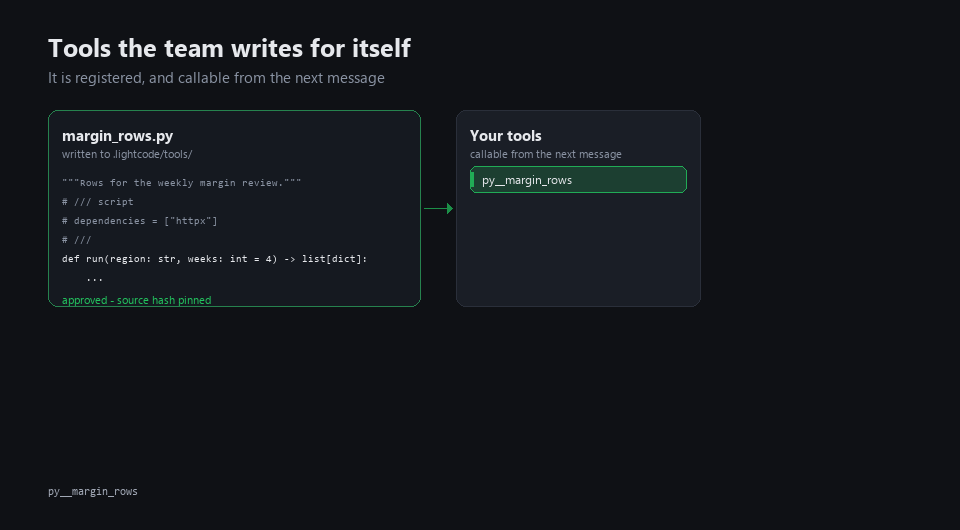
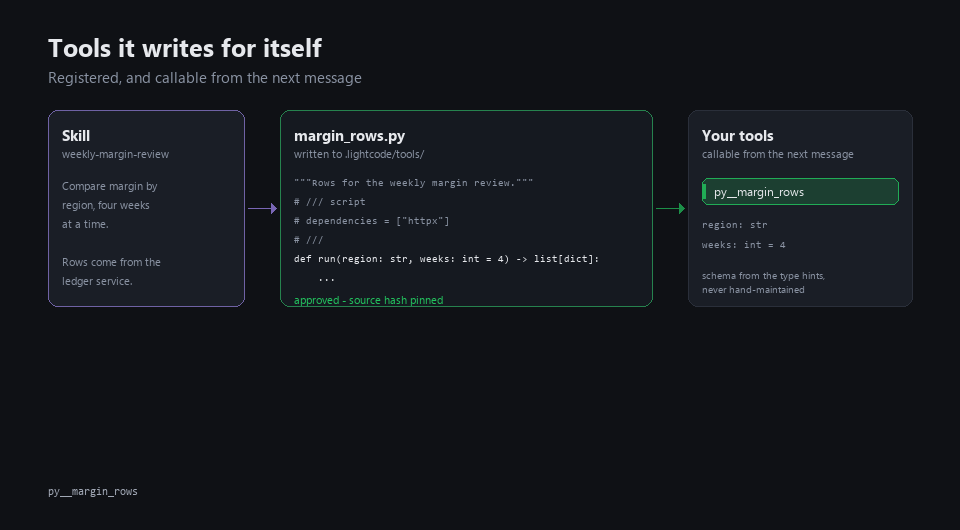
docs: the python tools animation claimed sharing that does not exist
Caught by the question "so python tools will only be shared if all the tools are
saved in a common space?". The answer is no, and not because of where they are
saved: the sharing does not work at all.

`s3.tools` is configurable, `syncFromS3` brings the `.py` files down, and the S3
panel reports the folder they landed in - but `PythonManager` holds exactly one
`toolsDir` and never looks at them, and `create_python_tool` has no publish hook
the way `write_skill` does. Downloaded and ignored, in both directions, with a
panel saying it was copied. The commit that built the mirror is explicit that this
was future work: "which is how skills and Python tools *will* live in a bucket".

The animation shipped an hour ago ending on the three-person shelf the skills one
has, captioned "everyone's tools, available to everyone's assistant". That is
exactly the failure the generator's own header warns about - a diagram that
overstates gets believed, gets shown to other people, and nothing fails when it
stops being true. It got past the check because the config key, the sync and the
panel all exist, and I read those as the feature.

The scene now stops where the product does: a skill asks for an analysis, the
assistant writes the tool, the source is approved and hash-pinned, and it is
reused. All of which is true.

CLAUDE.md records the gap, and why finishing it is a decision rather than wiring:
section 13 keeps tool folders singular on purpose, because read-only extras were
[…]

diff --git a/scripts/generate-feature-gifs.py b/scripts/generate-feature-gifs.py
@@ -195,79 +195,98 @@ TOOL_SOURCE = (
 TOOL_CAPTIONS = (
     (0, "A skill says what analysis is needed - the assistant writes the tool for it"),
     (30, "You approve the source. Nothing runs until you have read it"),
-    (54, "It is registered, and callable from the next message"),
-    (76, "Publish it, and it joins the team's shelf"),
-    (100, "Everyone's tools, available to everyone's assistant"),
+    (54, "Registered, and callable from the next message"),
+    (78, "Reused every time that question comes up again"),
 )
 
 TOOL_NOTES = (
     (0, "create_python_tool"),
     (30, "approval shows the full source  -  hash-pinned once approved"),
     (54, "py__margin_rows"),
-    (76, "s3.tools  -  one folder per team, mirrored to each machine"),
+    (78, "the file is the source of truth; the registry is a generated cache"),
 )
 
-TEAM_TOOLS = (
-    ("py__margin_rows", GREEN, "Ana"),
-    ("py__ledger_fetch", BLUE, "Ben"),
-    ("py__risk_export", ORANGE, "Cara"),
+LATER_ASKS = (
+    ("last week's margins for the north region", "py__margin_rows(region='north', weeks=1)"),
+    ("and the same for the last quarter", "py__margin_rows(region='north', weeks=13)"),
 )
 
 
 def scene_python_tools(frame: int):
+    """The life of one Python tool.
+
+    ## What this deliberately does *not* show
+
+    An earlier version ended with the three-person shelf the skills animation has, captioned
+    "everyone's tools, available to everyone's assistant". **That is not true today**, and the
+    picture was drawn before it was checked. `s3.tools` exists, `syncFromS3` brings the `.py` files
+    down, and the panel reports where they landed — but `PythonManager` reads exactly one
+    `toolsDir`, so nothing ever loads them, and `create_python_tool` has no publish hook the way
+    `write_skill` does. The commit that added the mirror says so in its own words: "which is how
+    skills and Python tools *will* live in a bucket".
+
+    So the scene stops where the product does. It is the exact failure the header of this file
+    warns about — a diagram that overstates gets believed, shown to other people, and nothing fails
+    when it stops being true — and it got past the check once already.
+    """
     c = Canvas(
-        "Tools the team writes for itself",
+        "Tools it writes for itself",
         latest(TOOL_CAPTIONS, frame),
         latest(TOOL_NOTES, frame),
     )
 
+    # --- the skill that asked for it
+    c.panel(48, 110, 196, 196, title="Skill", subtitle="weekly-margin-review", accent=PURPLE)
+    for index, line in enumerate(
+        ("Compare margin by", "region, four weeks", "at a time.", "", "Rows come from the",
+         "ledger service.")
+    ):
+        c.label(62, 178 + index * 19, line, font=F_SMALL,
+                fill=blend(PANEL, MUTED, ramp(frame, 1 + index * 2, 4)))
+
+    c.arrow(248, 208, 276, 208, ramp(frame, 12, 5), blend(BG, PURPLE, 0.7))
+
     # --- the source, typed out and then approved
-    c.panel(48, 110, 372, 196, title="margin_rows.py", subtitle="written to .lightcode/tools/",
-            tone=SUNKEN, accent=GREEN if frame >= 30 else None)
+    c.panel(280, 110, 372, 196, title="margin_rows.py", subtitle="written to .lightcode/tools/",
+            tone=SUNKEN, accent=GREEN if frame >= 34 else None)
     for index, line in enumerate(TOOL_SOURCE):
-        alpha = ramp(frame, 2 + index * 3, 5)
+        alpha = ramp(frame, 14 + index * 3, 5)
         if alpha <= 0.01:
             continue
-        c.label(62, 178 + index * 19, line, font=F_MONO_S,
+        c.label(294, 178 + index * 19, line, font=F_MONO_S,
                 fill=blend(SUNKEN, TEXT if index >= 4 else MUTED, alpha))
 
     approved = ramp(frame, 34, 8)
     if approved > 0:
-        c.label(62, 292, "approved - source hash pinned", font=F_SMALL,
+        c.label(294, 292, "approved - source hash pinned", font=F_SMALL,
                 fill=blend(SUNKEN, GREEN, approved))
 
-    # --- the registry
+    # --- registered
     live = ramp(frame, 56, 10)
-    c.panel(456, 110, 244, 196, title="Your tools", subtitle="callable from the next message",
+    c.panel(688, 110, 224, 196, title="Your tools", subtitle="callable from the next message",
             alpha=max(live, 0.25))
     if live > 0:
-        c.chip(470, 166, 216, 26, "py__margin_rows", GREEN, alpha=live)
-    c.arrow(424, 208, 452, 208, ramp(frame, 52, 6), blend(BG, GREEN, 0.7))
+        c.chip(702, 178, 196, 26, "py__margin_rows", GREEN, alpha=live)
+        c.label(702, 220, "region: str", font=F_MONO_S, fill=blend(PANEL, MUTED, live))
+        c.label(702, 240, "weeks: int = 4", font=F_MONO_S, fill=blend(PANEL, MUTED, live))
+        c.label(702, 268, "schema from the type hints,", font=F_MINI,
+                fill=blend(PANEL, MUTED, live))
+        c.label(702, 282, "never hand-maintained", font=F_MINI, fill=blend(PANEL, MUTED, live))
+    c.arrow(656, 208, 684, 208, ramp(frame, 52, 6), blend(BG, GREEN, 0.7))
 
-    # --- the shared shelf
-    shelf = ramp(frame, 78, 10)
-    c.panel(736, 110, 176, 196, title="Team shelf" if shelf > 0.3 else None,
-            subtitle="s3.tools" if shelf > 0.3 else None, tone=SUNKEN, accent=PURPLE, alpha=shelf)
-    for index, (name, colour, _) in enumerate(TEAM_TOOLS):
-        c.chip(750, 166 + index * 32, 148, 26, name, colour, over=SUNKEN,
-               alpha=ramp(frame, 82 + index * 5, 8), font=F_MINI)
-    c.arrow(704, 208, 732, 208, ramp(frame, 76, 6), blend(BG, PURPLE, 0.7))
-    c.travellers(704, 208, 732, 208, frame, 78, 10, PURPLE, count=2)
-
-    # --- everyone ends up with everyone's
-    for index, (_, colour, who) in enumerate(TEAM_TOOLS):
-        x = 48 + index * 296
-        alpha = ramp(frame, 100 + index * 5, 10)
-        c.panel(x, 340, 268, 104, alpha=alpha)
-        if alpha <= 0.2:
+    # --- reused later
+    for index, (question, call) in enumerate(LATER_ASKS):
+        alpha = ramp(frame, 80 + index * 14, 9)
+        if alpha <= 0.01:
             continue
-        c.avatar(x + 14, CARD_AV := 354, who, colour)
-        for slot, (name, tone, owner) in enumerate(TEAM_TOOLS):
-            sx = x + 14 + (slot % 2) * 128
-            sy = 388 + (slot // 2) * 26
-            c.chip(sx, sy, 122, 22, name, tone, solid=(owner == who),
-                   alpha=ramp(frame, 104 + index * 5 + slot, 8), font=F_MINI)
-        c.arrow(x + 134, 336, x + 134, 312, ramp(frame, 98, 8), blend(BG, PURPLE, 0.5), head=False)
+        y = 336 + index * 56
+        c.panel(48, y, 604, 48, tone=SUNKEN, alpha=alpha)
+        c.label(62, y + 24, f'"{question}"', font=F_BODY,
+                fill=blend(SUNKEN, TEXT, alpha), anchor="lm")
+        c.panel(688, y, 224, 48, tone=SUNKEN, accent=GREEN, alpha=alpha)
+        c.label(702, y + 24, call.split("(")[0], font=F_MONO_S,
+                fill=blend(SUNKEN, GREEN, alpha), anchor="lm")
+        c.arrow(656, y + 24, 684, y + 24, ramp(frame, 84 + index * 14, 5), blend(BG, GREEN, 0.6))
 
     return c.image
 

diff --git a/docs/gifs/README.md b/docs/gifs/README.md
@@ -24,7 +24,7 @@ the diff then shows what the picture now claims, which a replaced binary never c
 |---|---|---|
 | `skills-from-wiki.gif` | A wiki page becomes a skill; the skill is embedded; semantic search finds it later | `write_skill`, `embedder`, `search_docs` |
 | `team-skills.gif` | Everyone writes their own skills, publishes to their own collection, and one alias spans them | §12g, `embedder.skillsAlias`, `search_team_skills` |
-| `python-tools.gif` | The assistant writes a Python tool, you approve the source, and a team pools them | §13, `create_python_tool`, `s3.tools` |
+| `python-tools.gif` | The assistant writes a Python tool, you approve the source, and it is reused | §13, `create_python_tool` |
 | `form-filling.gif` | A skill holds the procedure, an MCP server acts, and a deny rule stops the final submit | `mcp` `deny`, §18 |
 | `scheduled-logs.gif` | Scheduled runs leave logs in a cluster, and they are read back and answered | §9b, `search_opensearch` |
 | `excel-investigation.gif` | It attaches to an open workbook and traces a formula to the cell that broke it | §12c, `excel_trace_cell` |
@@ -51,6 +51,13 @@ would have been believed:
   action can create, modify or delete an index. A scheduled run's output reaches the cluster
   through a tool configured to put it there, and what the diagram shows on the Light Code side is
   the *reading*.
+- **Python tools are not shared across a team.** This one got past the check and shipped: the
+  scene ended with the three-person shelf the skills animation has, captioned "everyone's tools,
+  available to everyone's assistant". `s3.tools` exists, `syncFromS3` brings the `.py` files down,
+  and the panel reports where they landed — but `PythonManager` reads exactly one `toolsDir`, so
+  nothing loads them, and `create_python_tool` has no publish hook the way `write_skill` does. The
+  commit that added the mirror says as much in its own words: *"which is how skills and Python
+  tools **will** live in a bucket"*. The scene now stops where the product does.
 - **A skill's reference files are not embedded.** Only its text is. That is the whole reason
   `use_skill_file` copies a file rather than reading it, and a picture implying otherwise would
   teach the opposite of how it works.

diff --git a/CLAUDE.md b/CLAUDE.md
@@ -1329,6 +1329,21 @@ have to agree, which is §19's most expensive recurring bug.
 - **`syncFromS3` is download-only and never deletes, locally or remotely.** A half-finished sync
   that had already emptied the folder would take somebody's skills away over a network blip.
 
+**The Python tools half of the mirror is not finished, and reads as though it were.** `s3.tools`
+is configurable, `syncFromS3` brings the `.py` files down, and the S3 panel reports the folder they
+landed in — but `PythonManager` holds exactly one `toolsDir` and never looks at them, and
+`create_python_tool` has no `onSaved` publish hook the way `write_skill` does. So a tool put in a
+bucket is downloaded and ignored, in both directions, with a panel saying it was copied. The commit
+that built the mirror is explicit that this was future work (*"which is how skills and Python tools
+**will** live in a bucket"*), but nothing in the running product says so.
+
+Finishing it is not just wiring: §13 records that **tool folders stay singular on purpose**,
+because read-only extras were thought to need a second approval-hash store, which is §15's
+two-stores-that-diverge problem on the sharpest surface in the project. That may be answerable —
+a mirrored folder could carry its own `.registry.json`, so a synced change breaks its own hash and
+is refused until approved — but it is a decision to take deliberately, not a gap to close by
+adding a path. **Do not depict team-shared Python tools as working until it is.**
+
 **Deleting from a bucket was deliberately absent and is now a button** (`s3/remove.ts`), because
 the honest answer to "how do I remove this skill" had been "in the AWS console". Four rules hold
 it, and none is incidental:
